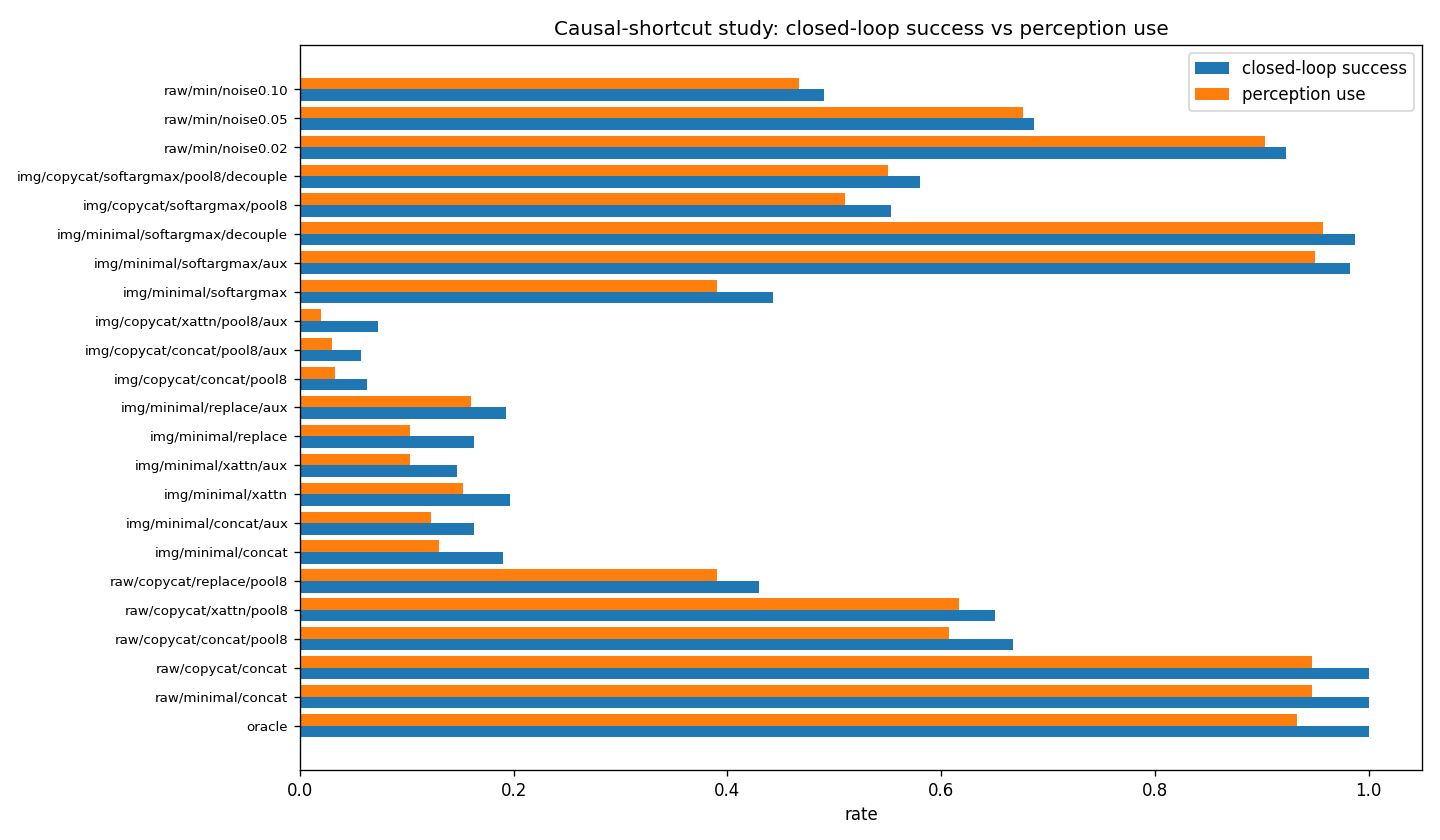
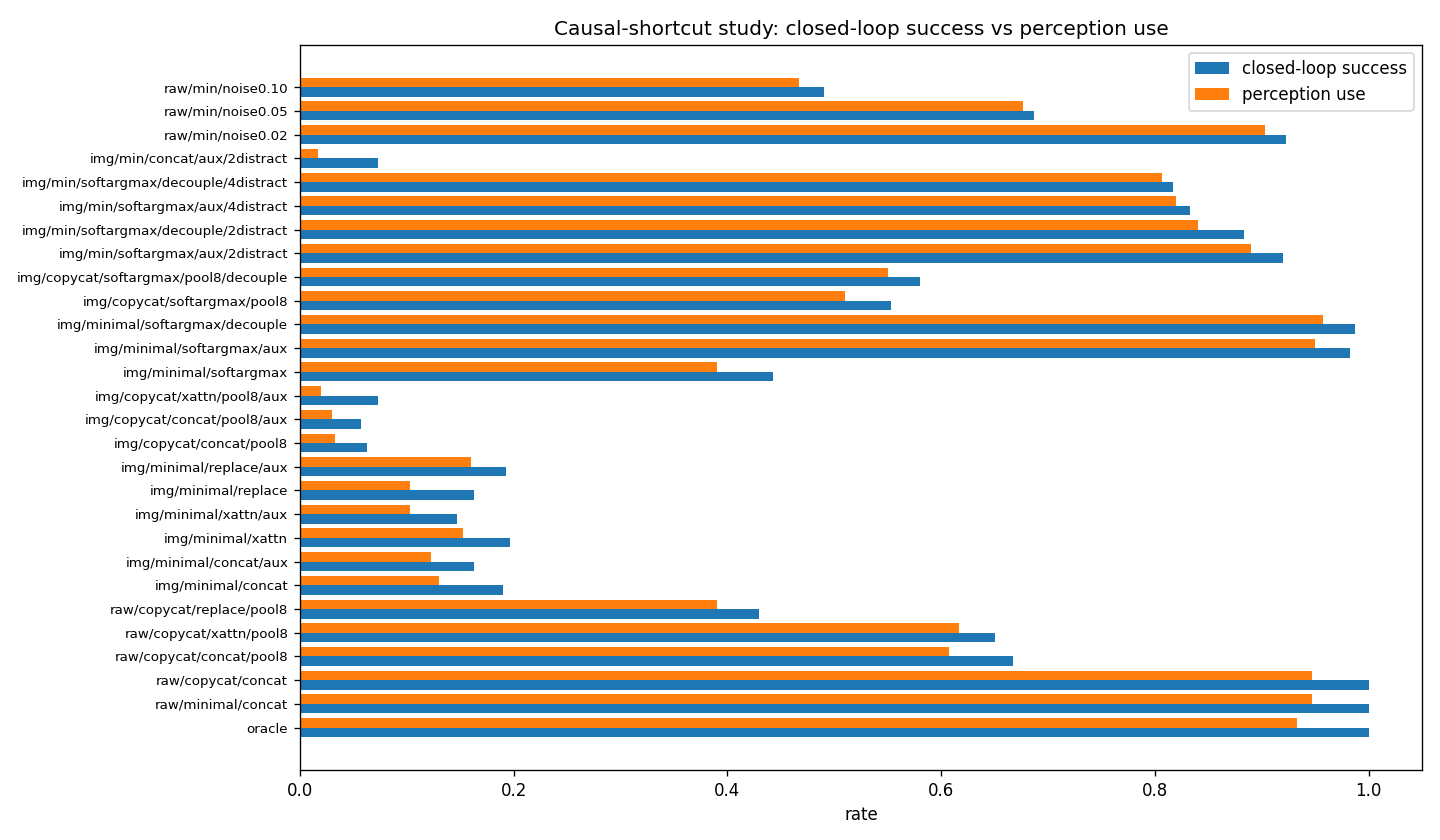
causal_shortcut_study: clutter / multi-object transfer test for soft-argmax
Adds n_distractors: dimmer distractor blobs (target stays brightest) to make
the image perception a cluttered multi-object scene -- the real test of whether
the location-preserving readout transfers to BEV/voxel-like scenes.

Result (3 seeds): soft-argmax+aux degrades GRACEFULLY (CL 0.98 -> 0.92 at 2
distractors -> 0.83 at 4; probe stays 0.029-0.037, well under the 0.05 success
radius) because the conv front-end learns to SELECT the brightest target peak
before the soft-argmax. Two-stage decouple tracks it (0.88 / 0.82). Mean-pool
concat+aux COLLAPSES to 0.07 with just 2 distractors. Direct evidence the
readout, not consumption, is the lever -- and that a location-preserving readout
with a learnable selection stage survives clutter when the target is
distinguishable. Caveat documented: target is distinguishable by intensity here;
real scenes need shape/semantic selection.

Changed region(s): [[0.0, 0.0929, 0.9688, 0.8667]]

diff --git a/causal_shortcut_study/toy_reach.py b/causal_shortcut_study/toy_reach.py
@@ -19,6 +19,8 @@ SUCCESS_RADIUS = 0.05   # closed-loop success threshold
 MAX_T = 60              # max steps per episode
 IMG_SIZE = 16           # perception "image" resolution
 BLOB_SIGMA = 0.08       # Gaussian blob std (in [-1,1] coords) for the target render
+DISTRACTOR_AMP = 0.6    # distractor blobs are dimmer than the target (amp 1.0)
+DISTRACTOR_MIN_DIST = 0.3  # keep distractors this far from the target (separable)
 
 
 def expert_action(ee: np.ndarray, tgt: np.ndarray) -> np.ndarray:
@@ -28,27 +30,47 @@ def expert_action(ee: np.ndarray, tgt: np.ndarray) -> np.ndarray:
 
 
 def render_target_image(tgt: np.ndarray, size: int = IMG_SIZE,
-                        sigma: float = BLOB_SIGMA) -> np.ndarray:
-    """Render the target as a single-channel Gaussian blob on a size×size grid.
+                        sigma: float = BLOB_SIGMA,
+                        distractors: np.ndarray | None = None,
+                        distractor_amp: float = DISTRACTOR_AMP) -> np.ndarray:
+    """Render the scene as a single-channel image on a size×size grid.
+
+    The TARGET is a Gaussian blob at full intensity (1.0). Optional DISTRACTOR
+    blobs are rendered dimmer (distractor_amp) and merged with element-wise max
+    (so overlaps don't sum to a brighter artifact). Returns (1, size, size).
 
     This is the "perception that must be decoded" — analogous to a BEV/voxel
     feature map where the object location is implicit, not handed over as a
-    coordinate. Returns (1, size, size) float32 in [0, 1].
+    coordinate. With distractors present the scene is CLUTTERED: a single-peak
+    soft-argmax over the raw image would compute a centroid across all blobs, so
+    the readout's conv front-end must learn to SELECT the (brightest) target
+    peak before the soft-argmax — the real-scene transfer test. The target stays
+    distinguishable by intensity so the task remains well-posed.
     """
     coords = np.linspace(-1.0, 1.0, size, dtype=np.float32)
     gx, gy = np.meshgrid(coords, coords, indexing="ij")  # (size, size)
-    sq = (gx - tgt[0]) ** 2 + (gy - tgt[1]) ** 2
-    blob = np.exp(-0.5 * sq / (sigma ** 2)).astype(np.float32)
-    return blob[None]  # (1, size, size)
+
+    def _blob(c: np.ndarray, amp: float) -> np.ndarray:
+        sq = (gx - c[0]) ** 2 + (gy - c[1]) ** 2
+        return amp * np.exp(-0.5 * sq / (sigma ** 2))
+
+    img = _blob(tgt, 1.0)
+    if distractors is not None:
+        for d in distractors:
+            img = np.maximum(img, _blob(d, distractor_amp))
+    return img[None].astype(np.float32)  # (1, size, size)
 
 
 class ToyReachEnv:
     """2D reaching. Stateless w.r.t. dataset gen; used for both rollout + data."""
 
-    def __init__(self, rng: np.random.Generator | None = None):
+    def __init__(self, rng: np.random.Generator | None = None,
+                 n_distractors: int = 0):
         self.rng = rng or np.random.default_rng(0)
+        self.n_distractors = n_distractors
         self.ee = np.zeros(2, dtype=np.float32)
         self.tgt = np.zeros(2, dtype=np.float32)
+        self.distractors = np.zeros((0, 2), dtype=np.float32)
         self.prev_action = np.zeros(2, dtype=np.float32)
         self.t = 0
 
@@ -57,6 +79,15 @@ class ToyReachEnv:
                    else self.rng.uniform(-0.8, 0.8, 2).astype(np.float32)).copy()
         self.tgt = (tgt if tgt is not None
                     else self.rng.uniform(-0.8, 0.8, 2).astype(np.float32)).copy()
+        # Distractors: fixed for the episode, re-randomized across episodes, kept
+        # a minimum distance from the target so they remain spatially separable.
+        ds = []
+        while len(ds) < self.n_distractors:
+            d = self.rng.uniform(-0.8, 0.8, 2).astype(np.float32)
+            if np.linalg.norm(d - self.tgt) > DISTRACTOR_MIN_DIST:
+                ds.append(d)
+        self.distractors = (np.stack(ds) if ds
+                            else np.zeros((0, 2), dtype=np.float32))
         self.prev_action = np.zeros(2, dtype=np.float32)
         self.t = 0
         return self._obs_dict()
@@ -76,7 +107,7 @@ class ToyReachEnv:
             "ee": self.ee.copy(),
             "tgt": self.tgt.copy(),
             "prev_action": self.prev_action.copy(),
-            "tgt_image": render_target_image(self.tgt),
+            "tgt_image": render_target_image(self.tgt, distractors=self.distractors),
         }
 
 
@@ -113,6 +144,7 @@ def generate_dataset(
     perception_mode: str,
     seed: int = 0,
     target_pool: np.ndarray | None = None,
+    n_distractors: int = 0,
 ):
     """Roll out the expert and collect (proprio, perception, action) tuples.
 
@@ -120,13 +152,16 @@ def generate_dataset(
         used to create the "memorizable trajectory" shortcut. If None, targets
         are drawn uniformly at random (breaks the memorization shortcut).
 
+    n_distractors: number of dimmer distractor blobs added to the image
+        perception (clutter test; only affects perception_mode="image").
+
     Returns dict of np arrays:
         proprio:    (N, proprio_dim)
         perception: (N, ...) depending on perception_mode
         action:     (N, 2)
     """
     rng = np.random.default_rng(seed)
-    env = ToyReachEnv(rng=rng)
+    env = ToyReachEnv(rng=rng, n_distractors=n_distractors)
 
     proprios, perceptions, actions, tgt_gts = [], [], [], []
     for _ in range(n_episodes):

diff --git a/causal_shortcut_study/train_eval.py b/causal_shortcut_study/train_eval.py
@@ -48,6 +48,7 @@ def train_policy(
     shortcut_pool_size: int | None = None,
     freeze_encoder_after_aux: bool = False,
     aux_pretrain_epochs: int = 40,
+    n_distractors: int = 0,
 ):
     """Train and return (policy, train_log).
 
@@ -72,7 +73,8 @@ def train_policy(
                    if shortcut_pool_size else None)
 
     data = generate_dataset(n_train_episodes, proprio_mode, perception_mode,
-                            seed=seed, target_pool=target_pool)
+                            seed=seed, target_pool=target_pool,
+                            n_distractors=n_distractors)
     t = _to_tensor(data)
     N = t["proprio"].shape[0]
 
@@ -152,8 +154,9 @@ def train_policy(
 
 @torch.no_grad()
 def eval_open_loop(policy, proprio_mode, perception_mode, injection,
-                   n_episodes=100, seed=999, device="cpu"):
-    data = generate_dataset(n_episodes, proprio_mode, perception_mode, seed=seed)
+                   n_episodes=100, seed=999, device="cpu", n_distractors=0):
+    data = generate_dataset(n_episodes, proprio_mode, perception_mode, seed=seed,
+                            n_distractors=n_distractors)
     t = _to_tensor(data)
     pred = policy(t["proprio"].to(device), t["perception"].to(device)).cpu()
     return float(((pred - t["action"]) ** 2).mean())
@@ -161,10 +164,11 @@ def eval_open_loop(policy, proprio_mode, perception_mode, injection,
 
 @torch.no_grad()
 def eval_closed_loop(policy, proprio_mode, perception_mode, injection,
-                     n_episodes=100, seed=12345, device="cpu", perc_ablate=False):
+                     n_episodes=100, seed=12345, device="cpu", perc_ablate=False,
+                     n_distractors=0):
     """Rollout on NOVEL random targets. Returns success rate."""
     rng = np.random.default_rng(seed)
-    env = ToyReachEnv(rng=rng)
+    env = ToyReachEnv(rng=rng, n_distractors=n_distractors)
     successes = 0
     for _ in range(n_episodes):
         obs = env.reset()  # random novel target
@@ -184,11 +188,13 @@ def eval_closed_loop(policy, proprio_mode, perception_mode, injection,
 
 
 @torch.no_grad()
-def eval_perception_probe(policy, perception_mode, n_episodes=100, seed=777, device="cpu"):
+def eval_perception_probe(policy, perception_mode, n_episodes=100, seed=777,
+                          device="cpu", n_distractors=0):
     """How well does target decode from the perception feature? Returns L2 (cm-like)."""
     if perception_mode == "none":
         return float("nan")
-    data = generate_dataset(n_episodes, "minimal", perception_mode, seed=seed)
+    data = generate_dataset(n_episodes, "minimal", perception_mode, seed=seed,
+                            n_distractors=n_distractors)
     t = _to_tensor(data)
     aux = policy.probe_target(t["perception"].to(device))  # bypasses proprio + head
     if aux is None:
@@ -199,20 +205,26 @@ def eval_perception_probe(policy, perception_mode, n_episodes=100, seed=777, dev
 
 def run_one(proprio_mode="copycat", perception_mode="image", injection="concat",
             aux_weight=0.0, noise_sigma=0.0, shortcut_pool_size=None,
-            freeze_encoder_after_aux=False, seed=0, device="cpu", verbose=True):
+            freeze_encoder_after_aux=False, n_distractors=0,
+            seed=0, device="cpu", verbose=True):
     policy, log = train_policy(
         proprio_mode, perception_mode, injection,
         aux_weight=aux_weight, noise_sigma=noise_sigma,
         shortcut_pool_size=shortcut_pool_size,
         freeze_encoder_after_aux=freeze_encoder_after_aux,
+        n_distractors=n_distractors,
         seed=seed, device=device,
     )
-    ol = eval_open_loop(policy, proprio_mode, perception_mode, injection, device=device)
-    cl = eval_closed_loop(policy, proprio_mode, perception_mode, injection, device=device)
+    ol = eval_open_loop(policy, proprio_mode, perception_mode, injection,
+                        device=device, n_distractors=n_distractors)
+    cl = eval_closed_loop(policy, proprio_mode, perception_mode, injection,
+                          device=device, n_distractors=n_distractors)
     cl_ablate = (eval_closed_loop(policy, proprio_mode, perception_mode, injection,
-                                  device=device, perc_ablate=True)
+                                  device=device, perc_ablate=True,
+                                  n_distractors=n_distractors)
                  if perception_mode != "none" else cl)
-    probe = eval_perception_probe(policy, perception_mode, device=device)
+    probe = eval_perception_probe(policy, perception_mode, device=device,
+                                  n_distractors=n_distractors)
     res = {
         "proprio_mode": proprio_mode,
         "perception_mode": perception_mode,
@@ -220,6 +232,7 @@ def run_one(proprio_mode="copycat", perception_mode="image", injection="concat",
         "aux_weight": aux_weight,
         "noise_sigma": noise_sigma,
         "shortcut_pool": shortcut_pool_size or 0,
+        "n_distractors": n_distractors,
         "open_loop_mse": round(ol, 5),
         "closed_loop_success": round(cl, 3),
         "ablated_success": round(cl_ablate, 3),
@@ -247,6 +260,8 @@ def parse_args():
                    help="If set, train targets sampled from a fixed pool (memorization shortcut)")
     p.add_argument("--freeze_encoder_after_aux", action="store_true",
                    help="Two-stage decouple: aux-pretrain encoder, freeze, train action head")
+    p.add_argument("--n_distractors", type=int, default=0,
+                   help="Dimmer distractor blobs added to image perception (clutter test)")
     p.add_argument("--seed", type=int, default=0)
     p.add_argument("--device", default="cpu")
     return p.parse_args()
@@ -262,6 +277,7 @@ if __name__ == "__main__":
         noise_sigma=args.noise_sigma,
         shortcut_pool_size=args.shortcut_pool_size,
         freeze_encoder_after_aux=args.freeze_encoder_after_aux,
+        n_distractors=args.n_distractors,
         seed=args.seed,
         device=args.device,
     )

diff --git a/causal_shortcut_study/run_matrix.py b/causal_shortcut_study/run_matrix.py
@@ -21,7 +21,8 @@ from train_eval import run_one
 # Curated, informative cells (not the full cartesian product — many
 # combinations are redundant). Each tuple:
 #   (label, proprio_mode, perception_mode, injection, aux_weight,
-#    noise_sigma, shortcut_pool_size, freeze_encoder_after_aux)
+#    noise_sigma, shortcut_pool_size, freeze_encoder_after_aux[, n_distractors])
+# n_distractors defaults to 0 when omitted (8-field tuples).
 CELLS = [
     # --- Upper bound: target handed over directly in proprio ---
     ("oracle",                 "oracle",  "raw",   "concat", 0.0, 0.0, None, False),
@@ -55,6 +56,16 @@ CELLS = [
     ("img/copycat/softargmax/pool8","copycat","image","softargmax",0.0, 0.0, 8, False),
     ("img/copycat/softargmax/pool8/decouple","copycat","image","softargmax",0.5,0.0,8, True),
 
+    # --- CLUTTER (distractor blobs): does soft-argmax survive a multi-object
+    #     scene? The target is brighter; the readout must SELECT it. Real-scene
+    #     transfer test. (9th field = n_distractors) ---
+    ("img/min/softargmax/aux/2distract","minimal","image","softargmax",0.5,0.0,None,False,2),
+    ("img/min/softargmax/decouple/2distract","minimal","image","softargmax",0.5,0.0,None,True,2),
+    ("img/min/softargmax/aux/4distract","minimal","image","softargmax",0.5,0.0,None,False,4),
+    ("img/min/softargmax/decouple/4distract","minimal","image","softargmax",0.5,0.0,None,True,4),
+    # Baseline: mean-pool concat with clutter (expected to collapse harder)
+    ("img/min/concat/aux/2distract","minimal","image","concat",0.5,0.0,None,False,2),
+
     # --- Noise-tolerance sweet spot (raw, minimal, vary noise) ---
     ("raw/min/noise0.02",      "minimal", "raw",   "replace",0.0, 0.02, None, False),
     ("raw/min/noise0.05",      "minimal", "raw",   "replace",0.0, 0.05, None, False),
@@ -68,12 +79,13 @@ FIELDS = ["label", "closed_loop_success", "ablated_success", "perception_use",
 def run_matrix(seeds: int, out_csv: str | None):
     rows = []
     for cell in CELLS:
-        label, pm, perc, inj, auxw, noise, pool, freeze = cell
+        label, pm, perc, inj, auxw, noise, pool, freeze = cell[:8]
+        ndist = cell[8] if len(cell) > 8 else 0
         per_seed = []
         for s in range(seeds):
             res = run_one(proprio_mode=pm, perception_mode=perc, injection=inj,
                           aux_weight=auxw, noise_sigma=noise, shortcut_pool_size=pool,
-                          freeze_encoder_after_aux=freeze,
+                          freeze_encoder_after_aux=freeze, n_distractors=ndist,
                           seed=s, verbose=False)
             per_seed.append(res)
         # average the scalar metrics across seeds

diff --git a/causal_shortcut_study/README.md b/causal_shortcut_study/README.md
@@ -90,6 +90,10 @@ in minutes instead of GPU-days.
   (the cube-heatmap analog)
 - `noise_sigma` — Gaussian noise added to the decoded/raw perception target
   during training (the Path-1 robustness knob)
+- `freeze_encoder_after_aux` — two-stage decouple: aux-pretrain the perception
+  encoder, freeze it, then train only the action head on frozen features
+- `n_distractors` — number of dimmer distractor blobs added to the image
+  perception (clutter / multi-object transfer test; image mode only)
 
 ## The four metrics (`train_eval.py`)
 
@@ -168,6 +172,11 @@ Full matrix in `results.csv`, plot in `results.png`. Key cells:
 | **img / minimal / softargmax / decouple** | **0.99** | **0.96** | **0.009** | two-stage (freeze aux-pretrained encoder, train head) → near-perfect |
 | img / copycat / softargmax / pool8 | 0.55 | 0.51 | 0.15 | shortcut present → readout fix degrades but survives |
 | img / copycat / softargmax / pool8 / decouple | 0.58 | 0.55 | 0.010 | decouple makes encoder geometric (probe 0.01) but shortcut still caps CL |
+| **img / min / softargmax / aux / 2distract** | **0.92** | 0.89 | 0.029 | CLUTTER: 2 distractors → graceful drop from 0.98 (conv selects target peak) |
+| img / min / softargmax / decouple / 2distract | 0.88 | 0.84 | 0.030 | decouple holds up under clutter |
+| **img / min / softargmax / aux / 4distract** | **0.83** | 0.82 | 0.037 | 4 distractors → still strong; probe 0.037 ≪ 0.05 success radius |
+| img / min / softargmax / decouple / 4distract | 0.82 | 0.81 | 0.037 | decouple ≈ joint under heavier clutter |
+| **img / min / concat / aux / 2distract** | **0.07** | 0.02 | 0.473 | mean-pool COLLAPSES under clutter (averages over objects) |
 | raw / min / noise 0.02 / 0.05 / 0.10 | 0.92 / 0.69 / 0.49 | — | noise monotonically degrades (no shortcut to be robust against here) |
 
 ### Findings
@@ -190,6 +199,8 @@ Full matrix in `results.csv`, plot in `results.png`. Key cells:
 
 5. **H1 confirmed — memorization shortcut suppresses perception use** (raw/copycat: 0.95 → 0.61 with pool8; and the softargmax/pool8 result above). H4 inconclusive: noise monotonically degrades in `minimal` because there's no shortcut for robustness to protect against.
 
+6. **CLUTTER TRANSFER TEST — soft-argmax degrades GRACEFULLY, mean-pool collapses.** Adding 2–4 dimmer distractor blobs (target still the brightest), softargmax+aux holds: CL 0.98 → 0.92 (2) → 0.83 (4), with probe staying at 0.029–0.037 (≪ the 0.05 success radius) — the conv front-end learns to SELECT the target peak before the soft-argmax. Two-stage decouple tracks it (0.88 / 0.82). By contrast, **mean-pool concat+aux collapses to 0.07 with just 2 distractors** (pooling now averages over multiple objects; probe blows up to 0.47). This is **direct evidence the readout, not consumption, is the lever**, and that a location-preserving readout with a *learnable selection front-end* survives multi-object scenes — the closest in-toy analog to cluttered BEV/voxel. Caveat: here the target is distinguishable by *intensity*; real scenes distinguish by shape/semantics, so the real-system readout must include a learnable object-selection stage (the conv here plays that role), not a bare soft-argmax.
+
 ### What this means for the real project
 
 - The prior negative results (pi0_voxel, act_bev) are now **mechanistically re-diagnosed**: the dominant failure was likely a **lossy readout** (mean-pool / weak token aggregation that discards spatial location), NOT an intrinsic inability of the action head to consume geometry. A location-preserving readout + aux supervision + (optionally) freezing the geometric encoder gives CL 0.98–0.99 in the toy.
@@ -199,8 +210,9 @@ Full matrix in `results.csv`, plot in `results.png`. Key cells:
 ### Next experiments (toy, before touching real hardware)
 
 - ~~Two-stage decouple~~ **DONE** — `--freeze_encoder_after_aux`; works (CL 0.99) with a location-preserving readout, partial (CL 0.58) under the memorization shortcut.
-- **Shortcut-present interventions**: combine softargmax+decouple with a shortcut-breaking knob (drop prev_action / randomize) to close the pool8 gap (0.58 → ?).
-- **Multi-object / multi-peak readout**: replace the single Gaussian blob with 2–3 blobs (distractors) and test whether soft-argmax degrades — the real test of transfer to cluttered BEV/voxel scenes.
+- ~~Multi-object / multi-peak readout~~ **DONE** — `--n_distractors`; soft-argmax degrades gracefully (0.98 → 0.83 at 4 distractors), mean-pool collapses (0.07 at 2). The conv front-end is the learnable selector.
+- **Shortcut-present interventions** (still open): combine softargmax+decouple with a shortcut-breaking knob (drop prev_action / randomize) to close the pool8 gap (0.58 → ?).
+- **Same-intensity distractors** (harder): make distractors equal-brightness so the target is identified only by an external cue — tests whether the readout can do *semantic* selection, not just intensity selection.
 - **Bottleneck/token-aggregation sweep**: does an attention-pool or keypoint readout recover what mean-pool destroys, short of full soft-argmax?
 
 ## References